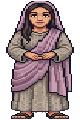
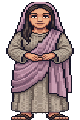
Add world zoom controls and tune Maria headroom/scale

diff --git a/apps/mobile-app/app/(tabs)/world.tsx b/apps/mobile-app/app/(tabs)/world.tsx
@@ -55,6 +55,10 @@ function clamp01(value: number) {
   return Math.max(0, Math.min(1, value));
 }
 
+function clampZoom(value: number) {
+  return Math.max(1, Math.min(1.8, value));
+}
+
 export default function WorldScreen() {
   const { loading, snapshot, addRuntimeTask, chatDraft, setChatDraft, attendanceReward } = useWorldStore();
   const { height: windowHeight } = useWindowDimensions();
@@ -66,6 +70,7 @@ export default function WorldScreen() {
   const [keyboardVisible, setKeyboardVisible] = useState(false);
   const [npcReaction, setNpcReaction] = useState<string | null>(null);
   const [panelVisible, setPanelVisible] = useState({ header: true, brief: true });
+  const [worldZoom, setWorldZoom] = useState(1);
   const [jesusAnchor, setJesusAnchor] = useState({ nx: 0.5, ny: 0.64 });
   const [mariaAnchor, setMariaAnchor] = useState({ nx: 0.73, ny: 0.59 });
   const [worldSize, setWorldSize] = useState({ width: 1, height: 1 });
@@ -138,8 +143,8 @@ export default function WorldScreen() {
   const jesusH = Math.max(78, Math.floor(worldSize.height * 0.098));
   const jesusLeft = clamp01(jesusAnchor.nx) * Math.max(0, worldSize.width - jesusW);
   const jesusTop = clamp01(jesusAnchor.ny) * Math.max(0, worldSize.height - jesusH);
-  const mariaW = jesusW;
-  const mariaH = jesusH;
+  const mariaW = Math.max(46, Math.floor(jesusW * 0.88));
+  const mariaH = Math.max(72, Math.floor(jesusH * 0.9));
   const mariaLeft = clamp01(mariaAnchor.nx) * Math.max(0, worldSize.width - mariaW);
   const mariaTop = clamp01(mariaAnchor.ny) * Math.max(0, worldSize.height - mariaH);
   const mariaUnlocked = attendanceReward?.mariaUnlocked ?? false;
@@ -206,6 +211,10 @@ export default function WorldScreen() {
     setTimeout(() => setNpcReaction(null), 1300);
   };
 
+  const adjustWorldZoom = (delta: number) => {
+    setWorldZoom((prev) => clampZoom(Number((prev + delta).toFixed(2))));
+  };
+
   const executeCommand = async (text: string) => {
     const ts = Date.now();
     setWorldMessages((prev) => [...prev, { id: `wu-${ts}`, role: "user", text }]);
@@ -249,8 +258,10 @@ export default function WorldScreen() {
         onPanResponderMove: (_, gesture) => {
           const maxX = Math.max(1, worldSize.width - jesusW);
           const maxY = Math.max(1, worldSize.height - jesusH);
-          const nextX = Math.max(0, Math.min(maxX, dragStartRef.current.x + gesture.dx));
-          const nextY = Math.max(0, Math.min(maxY, dragStartRef.current.y + gesture.dy));
+          const scaledDx = gesture.dx / worldZoom;
+          const scaledDy = gesture.dy / worldZoom;
+          const nextX = Math.max(0, Math.min(maxX, dragStartRef.current.x + scaledDx));
+          const nextY = Math.max(0, Math.min(maxY, dragStartRef.current.y + scaledDy));
           const nextAnchor = { nx: nextX / maxX, ny: nextY / maxY };
           jesusAnchorRef.current = nextAnchor;
           setJesusAnchor(nextAnchor);
@@ -262,7 +273,7 @@ export default function WorldScreen() {
           void persistJesusAnchor(jesusAnchorRef.current.nx, jesusAnchorRef.current.ny);
         },
       }),
-    [jesusH, jesusW, worldSize.height, worldSize.width]
+    [jesusH, jesusW, worldSize.height, worldSize.width, worldZoom]
   );
 
   const mariaPanResponder = useMemo(
@@ -280,8 +291,10 @@ export default function WorldScreen() {
           if (!mariaUnlocked) return;
           const maxX = Math.max(1, worldSize.width - mariaW);
           const maxY = Math.max(1, worldSize.height - mariaH);
-          const nextX = Math.max(0, Math.min(maxX, mariaDragStartRef.current.x + gesture.dx));
-          const nextY = Math.max(0, Math.min(maxY, mariaDragStartRef.current.y + gesture.dy));
+          const scaledDx = gesture.dx / worldZoom;
+          const scaledDy = gesture.dy / worldZoom;
+          const nextX = Math.max(0, Math.min(maxX, mariaDragStartRef.current.x + scaledDx));
+          const nextY = Math.max(0, Math.min(maxY, mariaDragStartRef.current.y + scaledDy));
           const nextAnchor = { nx: nextX / maxX, ny: nextY / maxY };
           mariaAnchorRef.current = nextAnchor;
           setMariaAnchor(nextAnchor);
@@ -291,7 +304,7 @@ export default function WorldScreen() {
           void persistMariaAnchor(mariaAnchorRef.current.nx, mariaAnchorRef.current.ny);
         },
       }),
-    [mariaH, mariaUnlocked, mariaW, worldSize.height, worldSize.width]
+    [mariaH, mariaUnlocked, mariaW, worldSize.height, worldSize.width, worldZoom]
   );
 
   if (loading || !snapshot || !selected) {
@@ -311,57 +324,13 @@ export default function WorldScreen() {
               onLayout={(e) => setWorldSize({ width: e.nativeEvent.layout.width, height: e.nativeEvent.layout.height })}
               style={{ height: worldHeight, borderRadius: 22, borderWidth: 1, borderColor: "rgba(255,255,255,0.08)", overflow: "hidden", backgroundColor: "#131313" }}
             >
-              <Image source={WORLD_LAYER_BG} style={{ position: "absolute", inset: 0, width: "100%", height: "100%" }} resizeMode="cover" />
-              <Image source={WORLD_LAYER_FIG_TREE} style={{ position: "absolute", inset: 0, width: "100%", height: "100%" }} resizeMode="cover" />
-              <Image source={WORLD_LAYER_NPCS} style={{ position: "absolute", inset: 0, width: "100%", height: "100%" }} resizeMode="cover" />
-              <Image source={WORLD_LAYER_OBJECTS} style={{ position: "absolute", inset: 0, width: "100%", height: "100%" }} resizeMode="cover" />
+              <View style={{ position: "absolute", inset: 0, transform: [{ scale: worldZoom }] }}>
+                <Image source={WORLD_LAYER_BG} style={{ position: "absolute", inset: 0, width: "100%", height: "100%" }} resizeMode="cover" />
+                <Image source={WORLD_LAYER_FIG_TREE} style={{ position: "absolute", inset: 0, width: "100%", height: "100%" }} resizeMode="cover" />
+                <Image source={WORLD_LAYER_NPCS} style={{ position: "absolute", inset: 0, width: "100%", height: "100%" }} resizeMode="cover" />
+                <Image source={WORLD_LAYER_OBJECTS} style={{ position: "absolute", inset: 0, width: "100%", height: "100%" }} resizeMode="cover" />
 
-              <Animated.View style={{ position: "absolute", left: jesusLeft, top: jesusTop, width: jesusW, height: jesusH, zIndex: 13 }} {...panResponder.panHandlers}>
-                <View
-                  style={{
-                    position: "absolute",
-                    left: "18%",
-                    right: "18%",
-                    bottom: -2,
-                    height: 8,
-                    borderRadius: 999,
-                    backgroundColor: "rgba(0,0,0,0.18)",
-                  }}
-                />
-                <View style={{ flex: 1 }}>
-                  <Image source={WORLD_JESUS_NPC} style={{ width: "100%", height: "100%" }} resizeMode="contain" />
-                </View>
-                <Animated.View
-                  pointerEvents="none"
-                  style={{
-                    position: "absolute",
-                    left: "50%",
-                    top: "50%",
-                    width: 72,
-                    height: 72,
-                    marginLeft: -36,
-                    marginTop: -36,
-                    borderRadius: 999,
-                    borderWidth: 2,
-                    borderColor: "rgba(255,234,191,0.95)",
-                    opacity: npcPulseOpacity,
-                    transform: [{ scale: npcPulseScale }],
-                  }}
-                />
-              </Animated.View>
-
-              {mariaUnlocked ? (
-                <View
-                  {...mariaPanResponder.panHandlers}
-                  style={{
-                    position: "absolute",
-                    left: mariaLeft,
-                    top: mariaTop,
-                    width: mariaW,
-                    height: mariaH,
-                    zIndex: 13,
-                  }}
-                >
+                <Animated.View style={{ position: "absolute", left: jesusLeft, top: jesusTop, width: jesusW, height: jesusH, zIndex: 13 }} {...panResponder.panHandlers}>
                   <View
                     style={{
                       position: "absolute",
@@ -373,9 +342,57 @@ export default function WorldScreen() {
                       backgroundColor: "rgba(0,0,0,0.18)",
                     }}
                   />
-                  <Image source={WORLD_MARIA_NPC} style={{ width: "100%", height: "100%" }} resizeMode="contain" />
-                </View>
-              ) : (
+                  <View style={{ flex: 1 }}>
+                    <Image source={WORLD_JESUS_NPC} style={{ width: "100%", height: "100%" }} resizeMode="contain" />
+                  </View>
+                  <Animated.View
+                    pointerEvents="none"
+                    style={{
+                      position: "absolute",
+                      left: "50%",
+                      top: "50%",
+                      width: 72,
+                      height: 72,
+                      marginLeft: -36,
+                      marginTop: -36,
+                      borderRadius: 999,
+                      borderWidth: 2,
+                      borderColor: "rgba(255,234,191,0.95)",
+                      opacity: npcPulseOpacity,
+                      transform: [{ scale: npcPulseScale }],
+                    }}
+                  />
+                </Animated.View>
+
+                {mariaUnlocked ? (
+                  <View
+                    {...mariaPanResponder.panHandlers}
+                    style={{
+                      position: "absolute",
+                      left: mariaLeft,
+                      top: mariaTop,
+                      width: mariaW,
+                      height: mariaH,
+                      zIndex: 13,
+                    }}
+                  >
+                    <View
+                      style={{
+                        position: "absolute",
+                        left: "18%",
+                        right: "18%",
+                        bottom: -2,
+                        height: 8,
+                        borderRadius: 999,
+                        backgroundColor: "rgba(0,0,0,0.18)",
+                      }}
+                    />
+                    <Image source={WORLD_MARIA_NPC} style={{ width: "100%", height: "100%" }} resizeMode="contain" />
+                  </View>
+                ) : null}
+              </View>
+
+              {!mariaUnlocked ? (
                 <View
                   style={{
                     position: "absolute",
@@ -393,7 +410,19 @@ export default function WorldScreen() {
                   <Text style={{ color: "#ffeabf", fontSize: 10, fontWeight: "700" }}>7일 출석 보상: 마리아 NPC</Text>
                   <Text style={{ color: "rgba(245,245,245,0.8)", fontSize: 10, marginTop: 2 }}>남은 일수 {mariaDaysLeft}일</Text>
                 </View>
-              )}
+              ) : null}
+
+              <View style={{ position: "absolute", right: 12, bottom: 84, zIndex: 24, gap: 6 }}>
+                <Pressable onPress={() => adjustWorldZoom(0.1)} style={{ borderRadius: 999, borderWidth: 1, borderColor: "#4e6590", backgroundColor: "rgba(22,32,46,0.86)", paddingHorizontal: 10, paddingVertical: 4 }}>
+                  <Text style={{ color: "#d8e7ff", fontSize: 12, fontWeight: "700" }}>줌 +</Text>
+                </Pressable>
+                <Pressable onPress={() => adjustWorldZoom(-0.1)} style={{ borderRadius: 999, borderWidth: 1, borderColor: "#4e6590", backgroundColor: "rgba(22,32,46,0.86)", paddingHorizontal: 10, paddingVertical: 4 }}>
+                  <Text style={{ color: "#d8e7ff", fontSize: 12, fontWeight: "700" }}>줌 -</Text>
+                </Pressable>
+                <Pressable onPress={() => setWorldZoom(1)} style={{ borderRadius: 999, borderWidth: 1, borderColor: "#3a3a3a", backgroundColor: "rgba(23,23,23,0.88)", paddingHorizontal: 10, paddingVertical: 4 }}>
+                  <Text style={{ color: "#d0d0d0", fontSize: 10, fontWeight: "700" }}>{Math.round(worldZoom * 100)}%</Text>
+                </Pressable>
+              </View>
 
               {panelVisible.header ? (
                 <View style={{ position: "absolute", left: 12, right: 12, top: 12, borderRadius: 12, borderWidth: 1, borderColor: "#2f2f2f", backgroundColor: "rgba(14,14,14,0.72)", paddingHorizontal: 10, paddingVertical: 8, zIndex: 20, gap: 6 }}>
